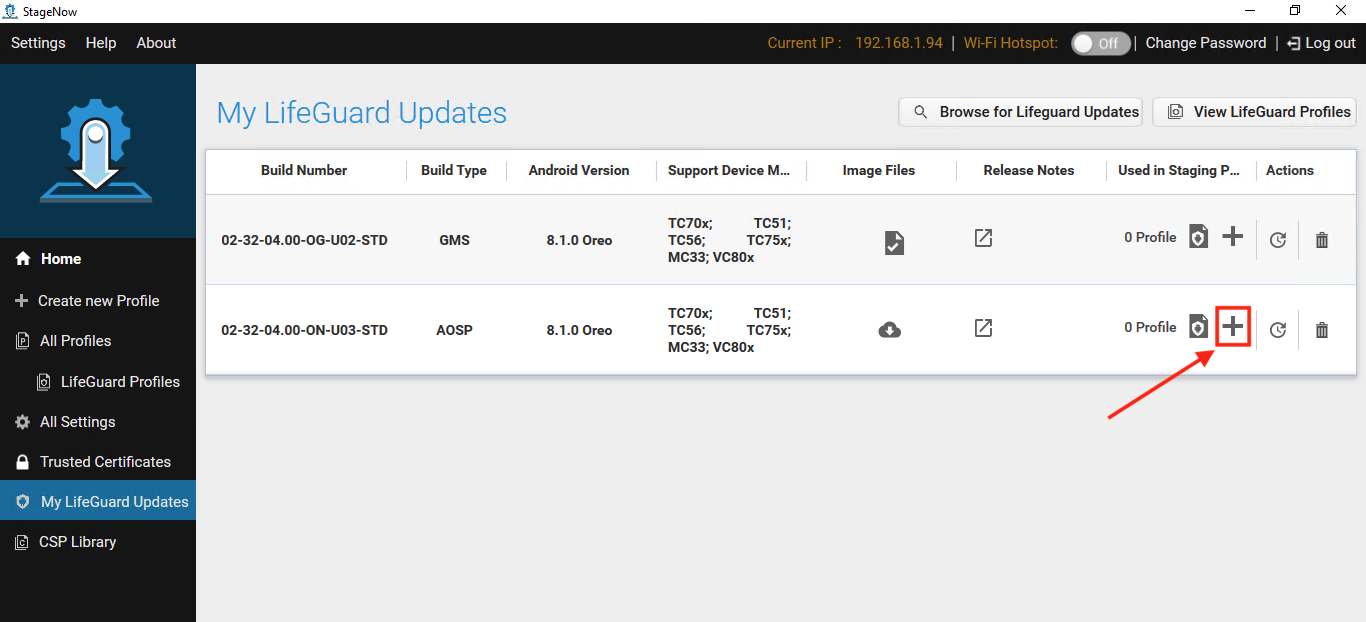
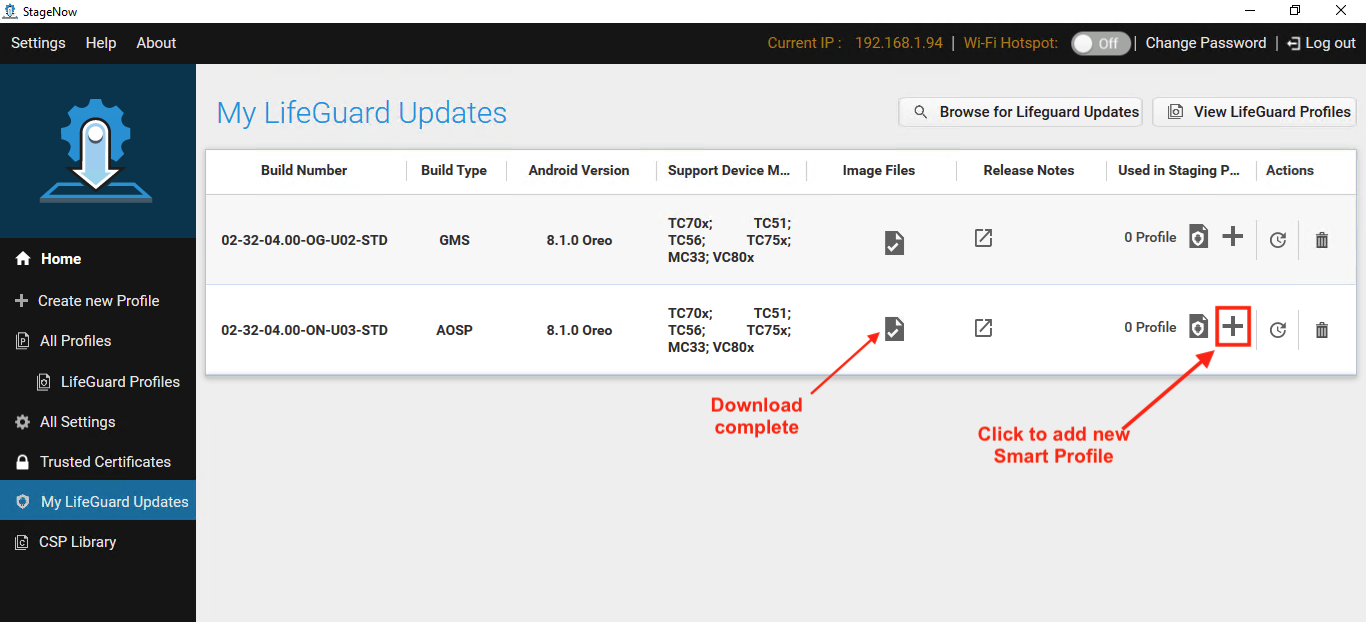
[TUT-42639] StageNow 5.0 Smart Profile page updates

diff --git a/src/stagenow/5-0/smartprofile/index.md b/src/stagenow/5-0/smartprofile/index.md
@@ -29,7 +29,7 @@ productversion: '5.0'
 
 **Before creating a Smart Profile**, at least one LifeGuard device image must be selected from the "Browse LifeGuard Images" page. **If LifeGuard images have already been selected, skip to Section II**.   
 
-#### To select a LifeGuard image:
+#### To select LifeGuard image(s):
 
 1. From the "<i class="fa fa-home" aria-hidden="true"></i> Home" screen, **click "My LifeGuard Updates"** in the left-hand pane. 
 2. **Click the "Browse for LifeGuard Updates" button** at the top of the screen.<br> Log in with Zebra OneCare credentials, if prompted. 
@@ -46,7 +46,7 @@ _Click image to enlarge; ESC to exit_.<br>
 
 When creating a Smart Profile, StageNow examines the selected LifeGuard image, calculates all required Setting Types (CSPs) and creates all Profile steps necessary to deploy the image to the target device(s). 
 
-> **See Notes section below for important rules and restrictions**. 
+> **See [Notes section](#notes) below for important rules and restrictions**. 
 
 #### To create a Smart Profile:
 
@@ -66,7 +66,9 @@ _Click image to enlarge; ESC to exit_.<br>
  _Click image to enlarge; ESC to exit_.<br>
 <br>
 
+> Next steps here. 
 
+#### Whiz, bang... smart profile is made. 
 
 <!-- 
 
@@ -106,9 +108,7 @@ Combine variables and static text as desired. An example is shown below.<br>
 
 -->
 
-#### The Smart Profile is now complete
-
-#### Notes
+### Notes
 
 * Multiple simultaneous downloads are possible.
 * Leaving the download screen cancels all downloads.   
@@ -116,7 +116,7 @@ Combine variables and static text as desired. An example is shown below.<br>
 
 -----
 
-## Troubleshooting
+<!-- ## Troubleshooting
 
 Dynamic Staging errors occur when StageNow is unable to acquire data from a `.csv` file for generating staging media. 
 
@@ -151,79 +151,7 @@ Dynamic Staging errors occur when StageNow is unable to acquire data from a `.cs
 <br>
 5. **Return to <a href="#step6">Step 6</a>** in the previous section and try Dynamic Staging again. 
 
+-->
+
 -----
-<!-- 
-Then the administrator need only populate the file with the required data and select that `.csv` file when generating barcodes. 
 
-Data-entry fields that support Dynamic Staging are indicated by a "percent sign" (%) icon similar to the image below.  
-
-Variables can be used alone in a field or in combination with static values and/or other variables. 
-
-For example, a valid string might read as follows: 
-
-`192.168.%octet3%.%octet4%` to specify two static octets (192 and 168 separated by a "dot") and two variables (%octet3% and %octet4%, also separated by a dot). 
-
-WORKFLOW
-
-Use case- Allan: 
-
-In general, the concept is to produce a staging profile that does different things on different devices. 
-
-In its first iteration, dynamic parts are rendered static when barcodes or .bin files are created. 
-
-One staging profile produces multiple barcode sheets or .bin files. 
-
-
-
-STEPS 
-1. Decide to have a dynamic profile
-2. Determine what has to vary  in each profile
-3. Use the "Create a template" feature (Zebra-recommended) 
-4. Enter the required variables. it can be done as one master or separate CSVs for different stores.  
-
-ONE FILE
-all values, generate once
-but has extra barcode sheets that might not be needed every time
-
-One store, 10 department. one profile for each. 
-one row per store
-each profile references different subsets of the same file
-might not have been created from a template
-
-If customer has an access or SQL database with store info. 
-output selected sets as csv files
-might require referring to the file from within SN 
-
-WORKFLOW 1- without a database of variables
-
-WORKFLOW 2- with a database of variables
-
-
-FROM POLARION:
-
-Background:
-
-Currently, StageNow supports Barcode and NFC Staging Modalities, but all Staging Profiles are inherently Static, which means that all values must be entered at the time the Staging Profile is created and remain fixed unless/until the Staging Profile is manually edited.
-If an Administrator wishes to produce multiple variations of a Staging Profile, he must manually create a copy of the Staging Profile and edit it with the required changes and must repeat that process for each variation required.
-This is error-prone and time-consuming and creates a mass of Staging Profiles to manage.
-There is a strong request from the field to be able to perform Staging using multiple variations of a single Staging Profile in a more efficient manner.
-
-Assumptions:
-
-This may be the first increment of a larger Dynamic Staging Feature set and hence should be defined and implemented as generically possible so that it can serve as the base for future expansion.
-Customers would prefer a simple and standard way to provide Data Sets to be used when generating variations for a Staging Profile (e.g. specify a .CSV file).
-Customers may desire a way to manage and organize multiple Data Sets for use with the same or different Staging Profiles (e.g. a library of imported .CSV files).
-Customers will likely need a way to organize and manage the multiple Barcode Sheets Sets or collections of NFC tag binaries generated via Dynamic Staging (e.g. name generated files based on variant values).
-Customers may desire a way to visually differentiate Static and Dynamic Staging Profiles.
-Customers may desire a way to visually differentiate Barcode Sheets Sets or NFC Instructions Sheets when generating variations for a Staging Profile.
-Customers may desire a way to customize the Staging Operator instructions produced on the Barcode Sheets or NFC Instruction Sheets when generating variations for a Staging Profile.
-
-Expectations:
-
-The Staging Administrator can optionally choose to include a Variable anywhere the wish within any text-entry field presented within a Staging Profile.
-Each Staging Profile can have as many or as few variables as the Staging Administrator wishes to use and can name variables any way he wishes.
-A single text-entry field could contain mixtures of static data and variables in any combination.
-Any Staging Profile containing at least one variable is a Dynamic Staging Profile and all other Staging Profiles are Static.
-When the Staging Administrator or Staging Operator generates using a Dynamic Staging Profile, he will be required to supply a Data Set providing at least one or more values for every variable.
-The Staging Administrator will be able to easily manage Dynamic Staging Profiles, Data Sets, and the Barcode Sheets, NFC Binary Files, Audio Files, etc. generated from them.
- -->
